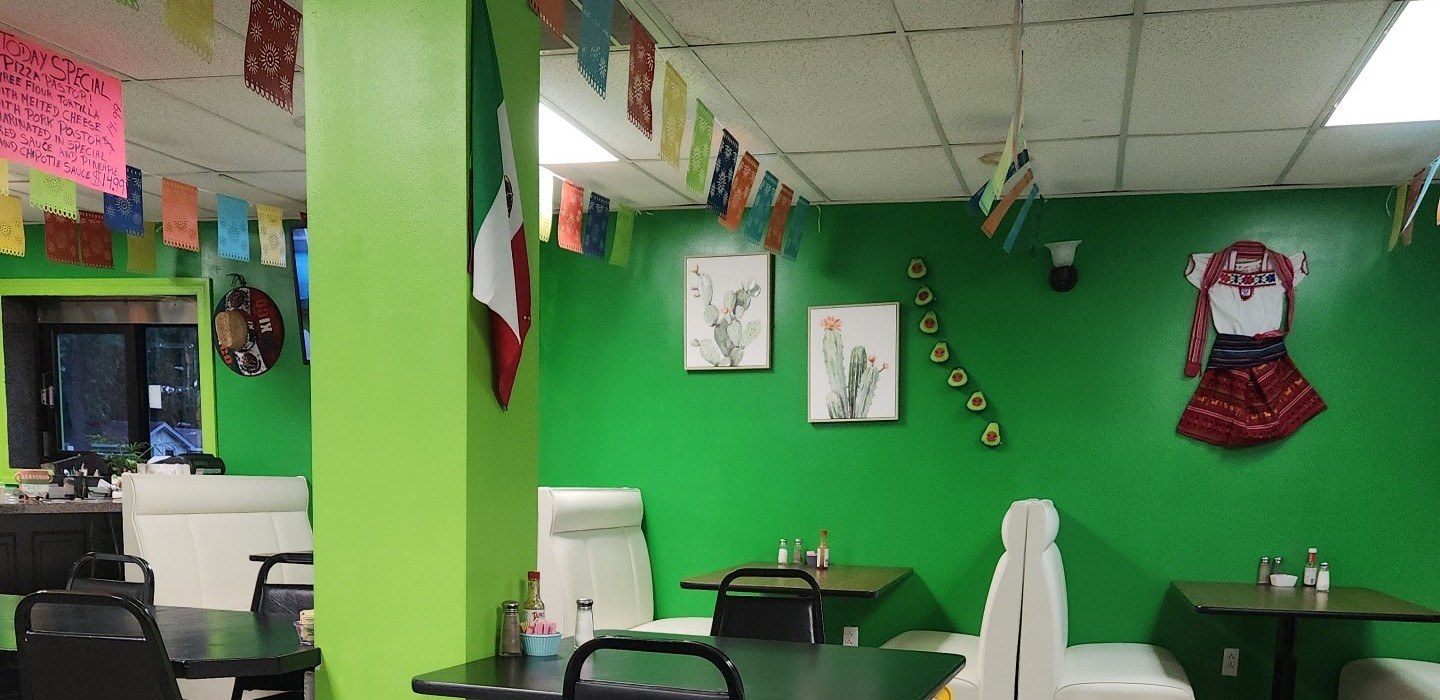
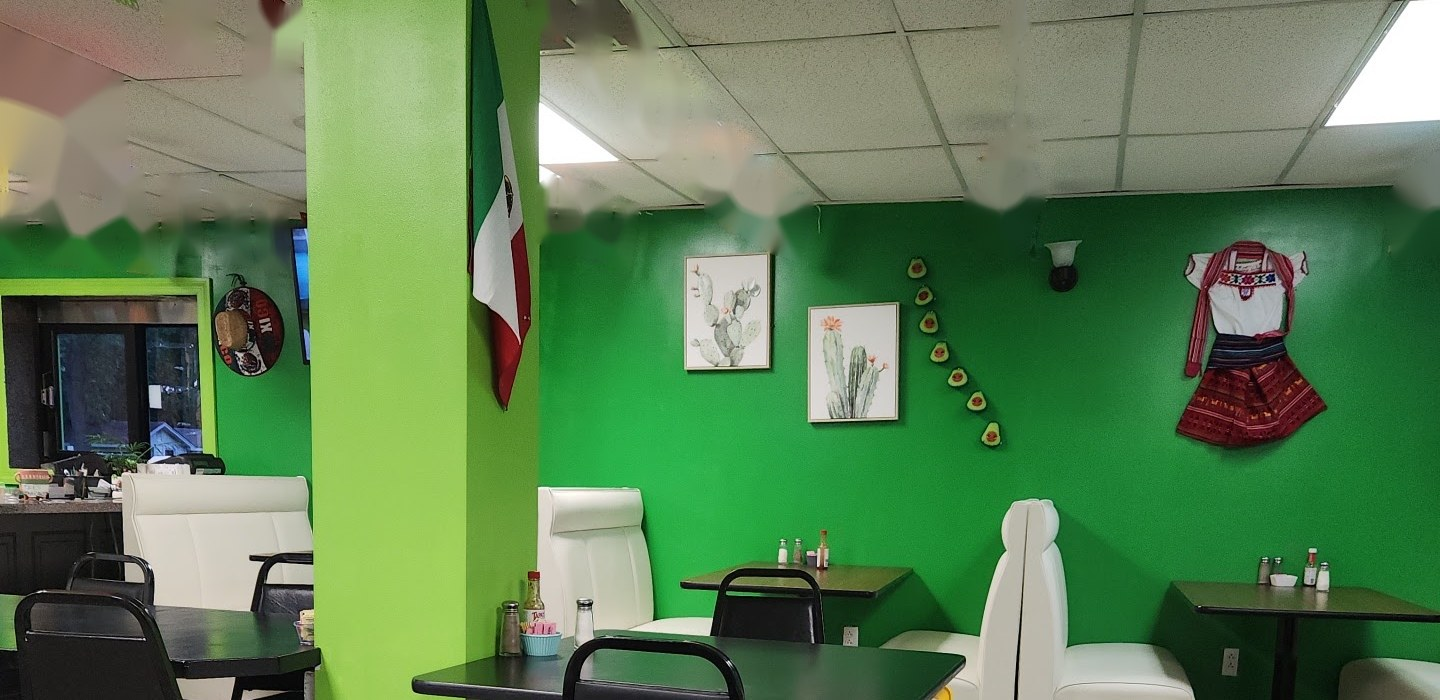
Wind animation: every hanging decoration sways, scroll adds gusts

diff --git a/assets/sway.js b/assets/sway.js
@@ -1,0 +1,67 @@
+// Wind: every hanging decoration sways on its own; scrolling adds gusts.
+(function(){
+  var BG=[{"f": "sway/b00.png", "x": 164, "y": 0, "w": 51, "h": 64, "ox": 49.0, "oy": 0.0, "a": 1}, {"f": "sway/b01.png", "x": 244, "y": 0, "w": 60, "h": 115, "ox": 53.3, "oy": 0.0, "a": 1}, {"f": "sway/b02.png", "x": 29, "y": 167, "w": 50, "h": 55, "ox": 48.0, "oy": 1.8, "a": 1}, {"f": "sway/b03.png", "x": 0, "y": 194, "w": 26, "h": 65, "ox": 42.3, "oy": 1.5, "a": 1}, {"f": "sway/b04.png", "x": 44, "y": 209, "w": 38, "h": 55, "ox": 46.1, "oy": 1.8, "a": 1}, {"f": "sway/b05.png", "x": 79, "y": 209, "w": 36, "h": 61, "ox": 44.4, "oy": 1.6, "a": 1}, {"f": "sway/b06.png", "x": 103, "y": 164, "w": 42, "h": 74, "ox": 46.4, "oy": 1.4, "a": 1}, {"f": "sway/b07.png", "x": 125, "y": 217, "w": 32, "h": 55, "ox": 48.4, "oy": 1.8, "a": 1}, {"f": "sway/b08.png", "x": 161, "y": 176, "w": 40, "h": 78, "ox": 46.2, "oy": 1.3, "a": 1}, {"f": "sway/b09.png", "x": 215, "y": 192, "w": 35, "h": 72, "ox": 45.7, "oy": 1.4, "a": 1}, {"f": "sway/b10.png", "x": 255, "y": 202, "w": 33, "h": 68, "ox": 47.0, "oy": 1.5, "a": 1}, {"f": "sway/b11.png", "x": 0, "y": 27, "w": 130, "h": 173, "ox": 46.2, "oy": 0.6, "a": 0.35}, {"f": "sway/b12.png", "x": 529, "y": 0, "w": 36, "h": 38, "ox": 48.6, "oy": 0.0, "a": 1}, {"f": "sway/b13.png", "x": 576, "y": 0, "w": 38, "h": 101, "ox": 51.3, "oy": 0.0, "a": 1}, {"f": "sway/b14.png", "x": 626, "y": 14, "w": 31, "h": 128, "ox": 56.5, "oy": 0.8, "a": 1}, {"f": "sway/b15.png", "x": 657, "y": 61, "w": 32, "h": 109, "ox": 60.9, "oy": 0.9, "a": 1}, {"f": "sway/b16.png", "x": 685, "y": 97, "w": 31, "h": 102, "ox": 66.1, "oy": 1.0, "a": 1}, {"f": "sway/b17.png", "x": 706, "y": 127, "w": 35, "h": 90, "ox": 72.9, "oy": 1.1, "a": 1}, {"f": "sway/b18.png", "x": 718, "y": 151, "w": 43, "h": 81, "ox": 79.1, "oy": 1.2, "a": 1}, {"f": "sway/b19.png", "x": 743, "y": 170, "w": 37, "h": 75, "ox": 79.7, "oy": 1.3, "a": 1}, {"f": "sway/b20.png", "x": 764, "y": 182, "w": 32, "h": 72, "ox": 76.6, "oy": 1.4, "a": 1}, {"f": "sway/b21.png", "x": 782, "y": 196, "w": 30, "h": 64, "ox": 76.7, "oy": 1.6, "a": 1}, {"f": "sway/b22.png", "x": 537, "y": 176, "w": 18, "h": 68, "ox": 52.8, "oy": 1.5, "a": 1}, {"f": "sway/b23.png", "x": 557, "y": 179, "w": 29, "h": 76, "ox": 55.2, "oy": 1.3, "a": 1}, {"f": "sway/b24.png", "x": 582, "y": 191, "w": 29, "h": 69, "ox": 62.1, "oy": 1.4, "a": 1}, {"f": "sway/b25.png", "x": 608, "y": 204, "w": 29, "h": 65, "ox": 67.2, "oy": 1.5, "a": 1}, {"f": "sway/b26.png", "x": 965, "y": 0, "w": 79, "h": 258, "ox": 63.3, "oy": 0.0, "a": 1.3}, {"f": "sway/b27.png", "x": 1384, "y": 154, "w": 56, "h": 104, "ox": 91.1, "oy": -3.8, "a": 1.3}];
+  var FG=[{"f": "fg-flag-0.png", "x": 130, "y": 281, "w": 102, "h": 177, "l": [130, 300], "r": [227, 291], "ox": 47.5, "oy": 5.6}, {"f": "fg-flag-1.png", "x": 294, "y": 212, "w": 132, "h": 226, "l": [294, 258], "r": [423, 213], "ox": 48.9, "oy": 0.4}, {"f": "fg-flag-2.png", "x": 510, "y": 137, "w": 156, "h": 203, "l": [510, 187], "r": [662, 138], "ox": 48.7, "oy": 0.5}, {"f": "fg-flag-3.png", "x": 764, "y": 19, "w": 210, "h": 309, "l": [766, 94], "r": [967, 20], "ox": 48.8, "oy": 0.3}];
+  var reduce=window.matchMedia&&matchMedia('(prefers-reduced-motion: reduce)').matches;
+  var scene=document.getElementById('scene'), layer=document.getElementById('swayBg'), fgBox=document.getElementById('fgPapel');
+  if(!scene||!layer) return;
+  var items=[];
+  function rnd(a,b){return a+Math.random()*(b-a);}
+  // flags from the real ceiling photo
+  BG.forEach(function(d){
+    var im=new Image(); im.src='assets/img/'+d.f; im.alt=''; im.draggable=false;
+    im.style.transformOrigin=d.ox+'% '+d.oy+'%'; layer.appendChild(im);
+    items.push({el:im,d:d,kind:'bg',amp:3.2*d.a,ph:rnd(0,6.3),ph2:rnd(0,6.3),w1:rnd(.7,1.2),w2:rnd(1.6,2.4),g:rnd(.7,1.3)});
+  });
+  // foreground papel picado string (4 flags) + string
+  var svgNS='http://www.w3.org/2000/svg', path=null, fgItems=[];
+  if(fgBox){
+    var svg=document.createElementNS(svgNS,'svg'); svg.setAttribute('viewBox','0 0 1080 464'); svg.setAttribute('preserveAspectRatio','none');
+    path=document.createElementNS(svgNS,'path'); svg.appendChild(path); fgBox.appendChild(svg);
+    FG.forEach(function(d){
+      var im=new Image(); im.src='assets/img/'+d.f; im.alt=''; im.draggable=false;
+      im.style.left=(d.x/1080*100)+'%'; im.style.top=(d.y/464*100)+'%'; im.style.width=(d.w/1080*100)+'%';
+      im.style.transformOrigin=d.ox+'% '+d.oy+'%'; fgBox.appendChild(im);
+      var it={el:im,d:d,kind:'fg',amp:5,ph:rnd(0,6.3),ph2:rnd(0,6.3),w1:rnd(.6,1),w2:rnd(1.4,2),g:rnd(.8,1.2)};
+      items.push(it); fgItems.push(it);
+    });
+  }
+  // chile ristras
+  [].forEach.call(document.querySelectorAll('.fg-ristra'),function(el){
+    items.push({el:el,kind:'ristra',amp:2.2,ph:rnd(0,6.3),ph2:rnd(0,6.3),w1:rnd(.45,.7),w2:rnd(1.1,1.5),g:rnd(.8,1.1)});
+  });
+
+  // place ceiling flags on the photo (same mapping as the background)
+  window.__ejSway=function(P,s){
+    items.forEach(function(it){ if(it.kind!=='bg') return; var d=it.d, p=P(d.x,d.y);
+      it.el.style.left=p[0]+'px'; it.el.style.top=p[1]+'px'; it.el.style.width=(d.w*s)+'px'; it.el.style.height=(d.h*s)+'px'; });
+  };
+  if(window.__ejLayout) window.__ejLayout();
+
+  var lastY=window.scrollY, gust=0, last=performance.now();
+  function frame(now){
+    var dt=Math.min(50,now-last)/1000; last=now; var t=now/1000;
+    var y=window.scrollY, vel=(y-lastY)/Math.max(dt,.001); lastY=y;
+    gust+=(Math.max(-1,Math.min(1,vel/1800))-gust)*Math.min(1,dt*3);   // scroll = gust (signed)
+    var breeze=.75+.25*Math.sin(t*.23)+.15*Math.sin(t*.61);              // slow changing wind
+    for(var i=0;i<items.length;i++){
+      var it=items[i];
+      var a=it.amp*breeze*(.65*Math.sin(t*it.w1+it.ph)+.35*Math.sin(t*it.w2+it.ph2)) + gust*it.amp*2.6*it.g;
+      var sk=a*.35;
+      var dy=0;
+      if(it.kind==='fg') dy=Math.sin(t*1.1+it.ph)*3*(1+Math.abs(gust)*2);
+      it.el.style.transform=(dy?'translateY('+dy.toFixed(2)+'px) ':'')+'rotate('+a.toFixed(3)+'deg) skewX('+sk.toFixed(3)+'deg)';
+    }
+    if(path&&fgItems.length){
+      var pts=[[-40,330+Math.sin(t*1.1)*4]];
+      fgItems.forEach(function(it,k){ var b=Math.sin(t*1.1+it.ph)*3*(1+Math.abs(gust)*2)*464/ (fgBox.offsetHeight||464);
+        pts.push([it.d.l[0],it.d.l[1]+b]); pts.push([it.d.r[0],it.d.r[1]+b]); });
+      pts.push([1120,0]);
+      var dstr='M'+pts[0][0]+','+pts[0][1];
+      for(var k=1;k<pts.length;k++){ var p0=pts[k-1],p1=pts[k],mx=(p0[0]+p1[0])/2,my=(p0[1]+p1[1])/2+((k%2)?6:2)*(1+Math.abs(gust)); dstr+=' Q'+mx+','+my+' '+p1[0]+','+p1[1]; }
+      path.setAttribute('d',dstr);
+    }
+    if(!reduce) requestAnimationFrame(frame);
+  }
+  requestAnimationFrame(frame);
+})();

diff --git a/assets/hero.css b/assets/hero.css
@@ -99,9 +99,12 @@
 /* ================= FOREGROUND MEXICAN DECOR (depth of field) ================= */
 .fg{position:absolute;inset:0;z-index:4;pointer-events:none}
 .fg img{position:absolute}
-.fg-papel{top:-3vh;left:-6vw;width:44vw;filter:blur(2.2px) brightness(.82) saturate(1.25) drop-shadow(0 18px 18px rgba(0,0,0,.45));transform-origin:50% 0;animation:sway 9s ease-in-out infinite}
-.fg-ristra.r1{top:-6vh;right:1.5vw;height:58vh;filter:blur(1.6px) brightness(.85) saturate(1.15) drop-shadow(-8px 18px 16px rgba(0,0,0,.55));transform-origin:50% 0;animation:sway 7s ease-in-out infinite}
-.fg-ristra.r2{top:-10vh;right:-4.5vw;height:66vh;filter:blur(4px) brightness(.55);transform-origin:50% 0;animation:sway 8s ease-in-out infinite reverse}
+.fg-papel{position:absolute;top:-3vh;left:-6vw;width:44vw;aspect-ratio:1080/464;filter:blur(2.2px) brightness(.82) saturate(1.25) drop-shadow(0 18px 18px rgba(0,0,0,.45))}
+.fg-papel svg{position:absolute;inset:0;width:100%;height:100%;overflow:visible}
+.fg-papel path{fill:none;stroke:#efeadf;stroke-width:3}
+.fg .fg-papel img{position:absolute;height:auto;will-change:transform}
+.fg-ristra.r1{top:-6vh;right:1.5vw;height:58vh;filter:blur(1.6px) brightness(.85) saturate(1.15) drop-shadow(-8px 18px 16px rgba(0,0,0,.55));transform-origin:50% 0;will-change:transform}
+.fg-ristra.r2{top:-10vh;right:-4.5vw;height:66vh;filter:blur(4px) brightness(.55);transform-origin:50% 0;will-change:transform}
 .fg-agave{right:-15vw;bottom:-16vh;height:50vh;filter:blur(3.5px) brightness(.5) saturate(1.1)}
 .fg-marigold{left:-3vw;bottom:-6vh;height:24vh;filter:blur(2.5px) brightness(.72) saturate(1.2)}
 @keyframes sway{0%,100%{transform:rotate(-1.2deg)}50%{transform:rotate(1.2deg)}}
@@ -167,3 +170,8 @@
 }
 @media (prefers-reduced-motion:reduce){.steam span,.rays span,.grain,.fg img,.ns-jal{animation:none!important}}
 .splash.sr{display:none}
+
+/* ceiling flags cut from the real photo — swayed by sway.js */
+.sway-bg{position:absolute;inset:0;z-index:0;pointer-events:none;filter:contrast(1.22) saturate(1.3) brightness(.78) sepia(.12);transition:filter .45s}
+.sway-bg img{position:absolute;will-change:transform;user-select:none}
+.hero.off .sway-bg{filter:contrast(1.15) saturate(.9) brightness(.42)}

diff --git a/index.html b/index.html
@@ -50,6 +50,7 @@
   <div class="scene" id="scene">
     <div class="hero-bg" id="heroBg" role="img" aria-label="Inside El Jalapeño: lime green walls, white booths, Mexican flag and papel picado"></div>
     <div class="hero-bg dof" id="heroDof" aria-hidden="true"></div>
+    <div class="sway-bg" id="swayBg" aria-hidden="true"></div>
     <div class="fx grade" aria-hidden="true"></div>
     <div class="fx teal" aria-hidden="true"></div>
     <div class="fx rays" aria-hidden="true"><span></span><span></span><span></span></div>
@@ -84,7 +85,7 @@
 
     <!-- Mexican decor in the foreground -->
     <div class="fg" aria-hidden="true">
-      <img class="fg-papel" src="assets/img/fg-papel.png" alt="">
+      <div class="fg-papel" id="fgPapel"></div>
       <img class="fg-ristra r1" src="assets/img/fg-ristra.png" alt="">
       <img class="fg-ristra r2" src="assets/img/fg-ristra2.png" alt="">
       <img class="fg-agave" src="assets/img/fg-agave.png" alt="">
@@ -191,5 +192,6 @@
 <script src="assets/menu.js"></script>
 <script src="assets/app.js"></script>
 <script src="assets/neon-bg.js"></script>
+<script src="assets/sway.js"></script>
 </body>
 </html>

diff --git a/assets/app.js b/assets/app.js
@@ -50,6 +50,7 @@
     var s=Math.max(W/IMG_W,H/IMG_H), dw=IMG_W*s, dh=IMG_H*s, ox=(W-dw)/2, oy=H-dh;
     [bg,dof].forEach(function(e){e.style.backgroundSize=dw+'px '+dh+'px';e.style.backgroundPosition=ox+'px '+oy+'px';});
     function P(x,y){return [ox+x*s, oy+y*s];}
+    if(window.__ejSway) window.__ejSway(P,s);
     var sr;
     if(desk){
       var p=P(SIGN.x,SIGN.y), w=SIGN.w*s;
